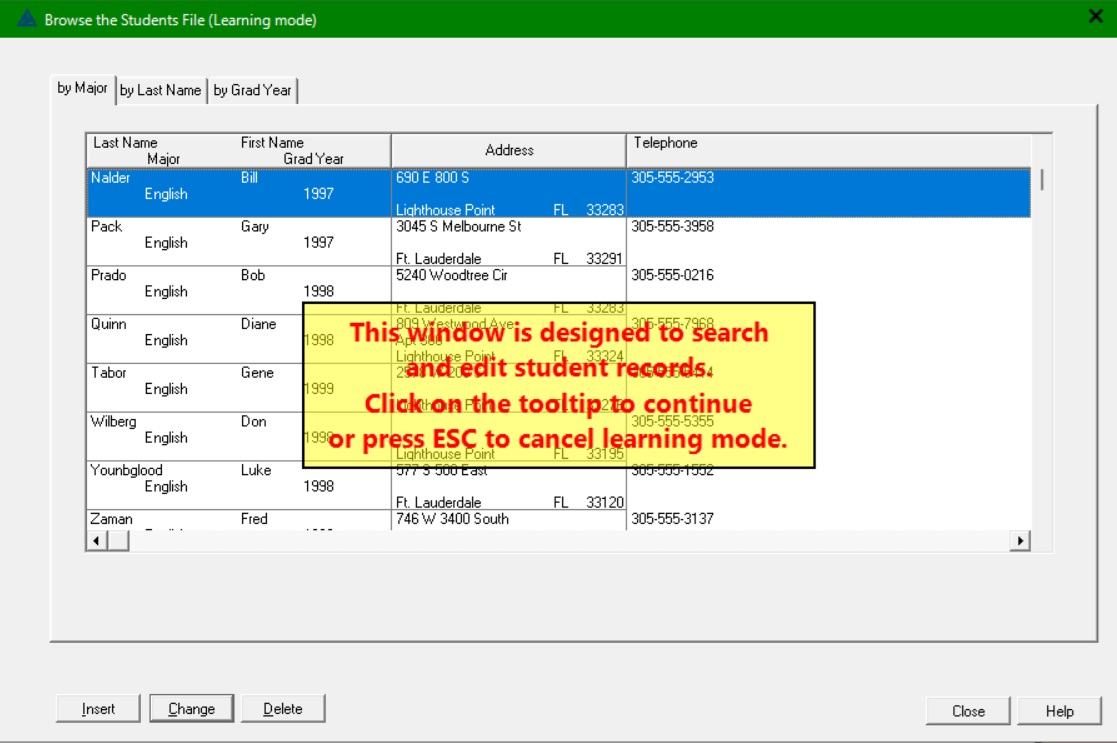
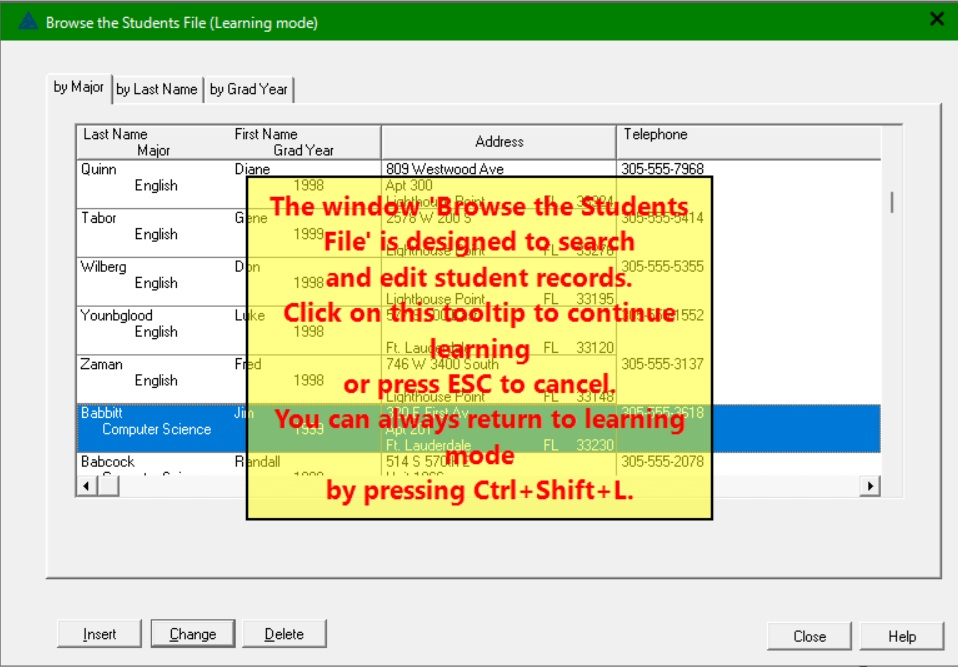
updated readme

diff --git a/README.md b/README.md
@@ -1,9 +1,16 @@
 # Learning mode
 ## What do I mean by "learning mode"?  
 This is a mode in which the user is guided step by step through the purpose of the window and controls.  
+  
+Below is a sample usage of learning mode.  
 
+The first step briefly explains where the user is and what to do next.
 ![Learning mode intro tooltip](https://github.com/mikeduglas/Learning-mode/blob/master/screenshots/lm-browse-intro-tooltip.jpg?raw=true)  
+Next steps lead to most significant controls and their purpose.
 ![Learning mode sheet control tooltip](https://github.com/mikeduglas/Learning-mode/blob/master/screenshots/lm-browse-sheet-tooltip.jpg?raw=true)  
+![Learning mode change button tooltip](https://github.com/mikeduglas/Learning-mode/blob/master/screenshots/lm-browse-change-button-tooltip.jpg?raw=true)  
+The optional final step brings the entire lesson to a close.
+![Learning mode bye tooltip](https://github.com/mikeduglas/Learning-mode/blob/master/screenshots/lm-browse-bye-tooltip.jpg?raw=true)  
 
 ## Global extension
 ![Global extension general](https://github.com/mikeduglas/Learning-mode/blob/master/screenshots/tpl-general.jpg?raw=true)  
